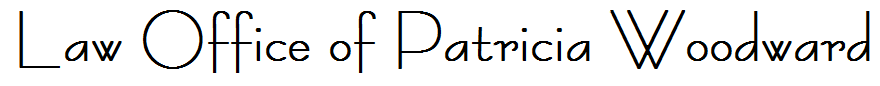
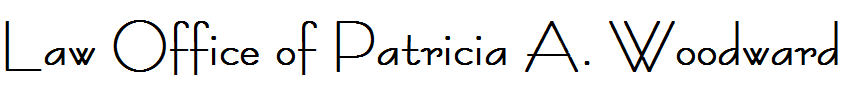
most recent changes

Changed region(s): [[0.0, 0.1163, 1.0, 0.8605]]

diff --git a/NetBeansProject/PAWSWebsite/public_html/PAWSMainPage.html b/NetBeansProject/PAWSWebsite/public_html/PAWSMainPage.html
@@ -146,7 +146,9 @@ Some of the groups with which she has been involved include the following:
         <div id='resourcesPageTitle'>
             <img class='resourcesImg' src='https://i.imgur.com/nrEexRc.png'>
         </div>
-
+        <div id='resourcePageBody' >
+            
+        </div>
     </div>
 
     <div class='contentPanes' id='generalPage'>
@@ -169,6 +171,21 @@ Some of the groups with which she has been involved include the following:
             If you cannot keep an appointment, please give me reasonable notice.
             Your courtesy will enable me to make time available for another 
             client.
+            <br><br>
+            <span class='genInfoSubtitles'>Procedures</span><br>
+            When you call the office it may not be possible to speak to me 
+            immediately.  If I am in conference with a client, I will not 
+            interrupt it to take calls.  I am often out of the office doing 
+            research or attending court, so it is not possible for me to return
+            telephone calls immediately.  Therefore, please give the necessary 
+            information to my secretary.  In many instances she will be 
+            familiar with your case.  If she cannot answer your questions, 
+            she will confer with me and will return your call as soon as possible.
+            <br>
+            When calling the office to inquire about your case or ask questions,
+            conserve your time and that of my secretary by consolidating your 
+            questions for one call, rather than calling the office on each
+            different question.
         </div>
 
     </div>
@@ -260,18 +277,29 @@ policies of those Web sites.
         <li>
           <a id='ResourcesButton' href='#'>Resources</a>
           <img id='pullOutImg' src='http://i.imgur.com/1JqVbeN.png'>
+          <img id='pullInImg' src='http://i.imgur.com/fADHFhm.png'>
           <ul id='submenu'>
               <li> 
-                  <a id='linksButton' href='#'>Links</a> 
+                  <a id='generalButton' href='#'>General</a> 
               </li>
               <li> 
-                  <a id='faqButton' href='#'>FAQ's</a> 
-                  <ul id='faqSubmenu'>
-                      <li>
-                          <a id='button1' href='#'> Button 1 </a>
-                      </li>  
-                  </ul>
+                  <a id='estatePlButton' href='#'>Estate Planning</a> 
+              </li>
+              <li>
+                  <a id='probateButton' href='#'>Probate</a>
+              </li>
+              <li>
+                  <a id='guardButton' href='#'>Guardianship</a>
+              </li>
+              <li>
+                  <a id='businessButton' href='#'>Business</a>
               </li>              
+              <li>
+                  <a id='realEstateButton' href='#'>Real Estate</a>
+              </li>
+              <li>
+                  <a id='appsButton' href='#'>Apps</a>
+              </li>                 
           </ul>
         </li>
         <li>
@@ -286,7 +314,7 @@ policies of those Web sites.
     <script type='text/javascript' src='transitionAndMenuScript.js'></script>
     <div class='websiteBorder'>
     <div class='title'>
-        <img class='titleImg' src='http://i.imgur.com/8FzOPdz.png'> 
+        <img class='titleImg' src='http://i.imgur.com/qZPWP4M.png'> 
     </div>
       <div class='footer'>
         <span class='footerText'>

diff --git a/NetBeansProject/PAWSWebsite/public_html/menuStyle.css b/NetBeansProject/PAWSWebsite/public_html/menuStyle.css
@@ -29,12 +29,6 @@
             border-top-color: rgb(204, 204, 204);
         }
         
-        #pullOutImg {
-            position: relative;
-            float: right;
-            bottom: 30px;
-            right: 5px;
-        }
         
         .menu li a {
             text-align: center;
@@ -67,13 +61,13 @@
             background: white;
             position: absolute;
             left: 181px;
-            top: 108px;
+            top: 124.5px;
             list-style: none;
             margin: 0px 0px 3em;
             padding: 0px;
             visibility: hidden;
             overflow: hidden;
-            height: 0px;
+            width: 115px;
         }   
         
         #submenu li a {
@@ -81,8 +75,8 @@
             text-align: center;
             background: white;
             font-size: 12px;
-            border: 1px solid rgb(204, 204, 204);           
-            
+            border: 1px solid rgb(204, 204, 204); 
+            height: 19.4px;
         }
         
         #submenu li a:hover {
@@ -96,33 +90,28 @@
             display: block;
         }
 
-        #faqSubmenu {
-            background: white;
-            position: absolute;
-            left: 64.3px;
-            top: 40px;
-            width: 77px;
-            list-style: none;
-            margin: 0px 0px 3em;
-            padding: 0px;
-            visibility: hidden;
-            overflow: hidden;
-            height: 0px;            
-        }
-        
-        #faqSubmenu li a {
+        #pullOutImg {
             position: relative;
-            text-align: center;
-            background: white;
-            font-size: 11px;
+            float: right;
+            bottom: 30px;
+            right: 5px;
         }
         
-        #submenu li:hover > #faqSubmenu {
-            visibility: visible;
-            overflow: visible;
+        #pullInImg {
+            position: relative;
+            float: right;
+            bottom: 30px;
+            right: 5px;
+            display: none;
+        }
+        
+        .menu li:hover > #pullOutImg {
+            display: none;
+        }
+        
+        
+        .menu li:hover > #pullInImg {
             display: block;
         }
-        
-        
         
         

diff --git a/NetBeansProject/PAWSWebsite/public_html/resourcesPage.css b/NetBeansProject/PAWSWebsite/public_html/resourcesPage.css
@@ -10,6 +10,21 @@
             background: #fff;
         }
         
+        #resourcePageBody {
+            display: block;
+            margin-left: 7px;
+            margin-right: auto;
+            position: relative;
+            top: 10px;
+            width: 95%;
+            height: 84%;
+            border: solid 2px;
+            font-size: 17px;
+            padding: 5px 5px 5px 5px;
+            text-align: justify;
+            z-index: -1;            
+        }
+        
         .resourcesImg {
             display: block;
             margin-left: auto;

diff --git a/NetBeansProject/PAWSWebsite/public_html/transitionAndMenuScript.js b/NetBeansProject/PAWSWebsite/public_html/transitionAndMenuScript.js
@@ -1,5 +1,5 @@
 $(document).ready(function() {
-      		$menuOpt = $('.menu li a');
+      		$menuOpt = $('.menu > li > a');
       		$content = $('.contentPanes');
                 $bottomLegal = $('.disclaimers a');
       		var prevItem = 0;
@@ -39,8 +39,9 @@ $(document).ready(function() {
 
       if (removeAttr === 0) $content.removeClass('initialContent');
       removeAttr = 1;
-
+      
       prevItem = item;
+
       };
       
       $('#HomeButton').on('click', function() {

diff --git a/NetBeansProject/PAWSWebsite/public_html/genInfoPage.css b/NetBeansProject/PAWSWebsite/public_html/genInfoPage.css
@@ -20,7 +20,7 @@
             width: 95%;
             height: 84%;
             border: solid 2px;
-            font-size: 15px;
+            font-size: 16px;
             padding: 5px 5px 5px 5px;
             text-align: justify;
             z-index: -1;            

diff --git a/NetBeansProject/PAWSWebsite/public_html/contentPanes.css b/NetBeansProject/PAWSWebsite/public_html/contentPanes.css
@@ -5,7 +5,7 @@
             height: 567px;
             top: 150px;
             left: 620px;
-            opacity: 0;
+            //opacity: 0;
             display: none;
             transition: opacity 1s;
             box-shadow: rgba(0, 0, 0, 0.4) 0px 0px 20px;
